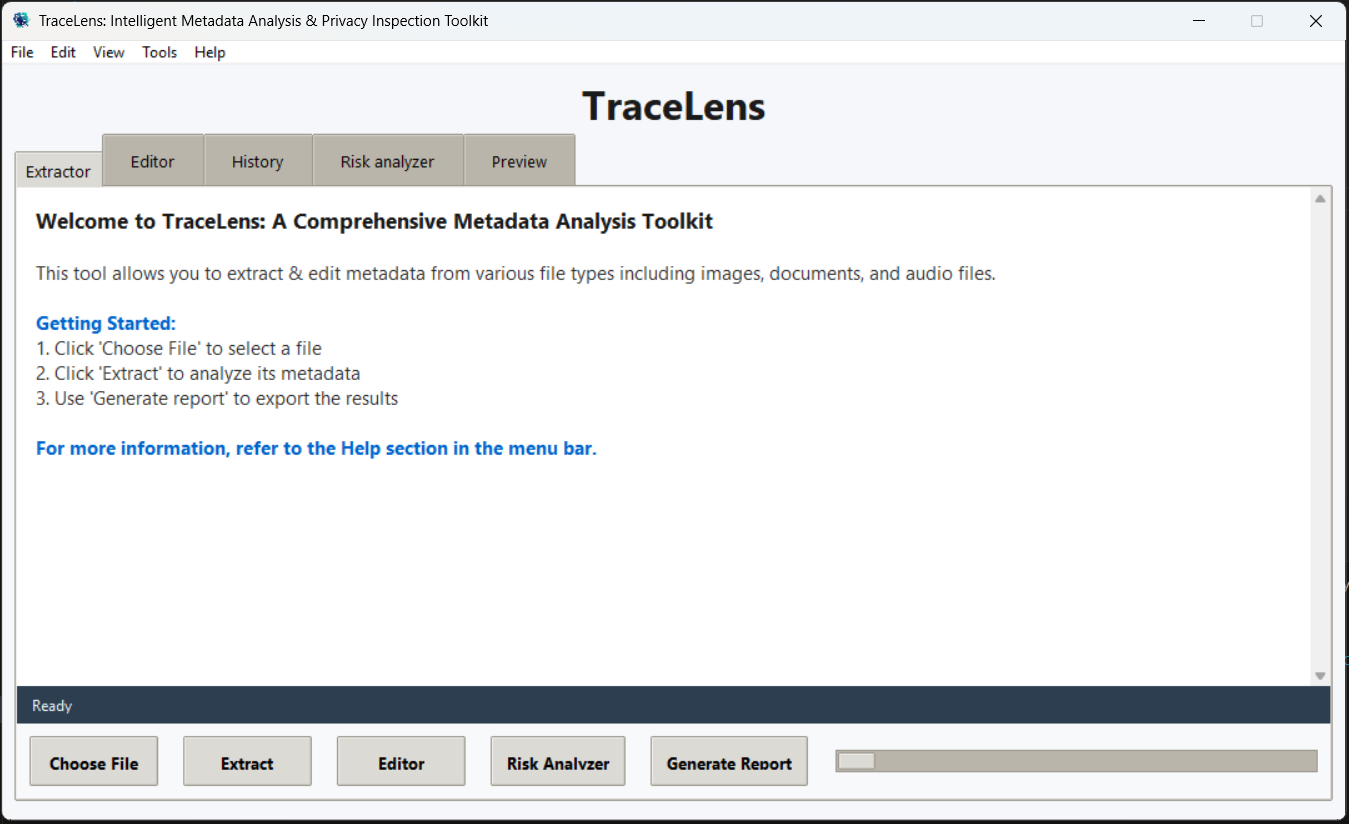
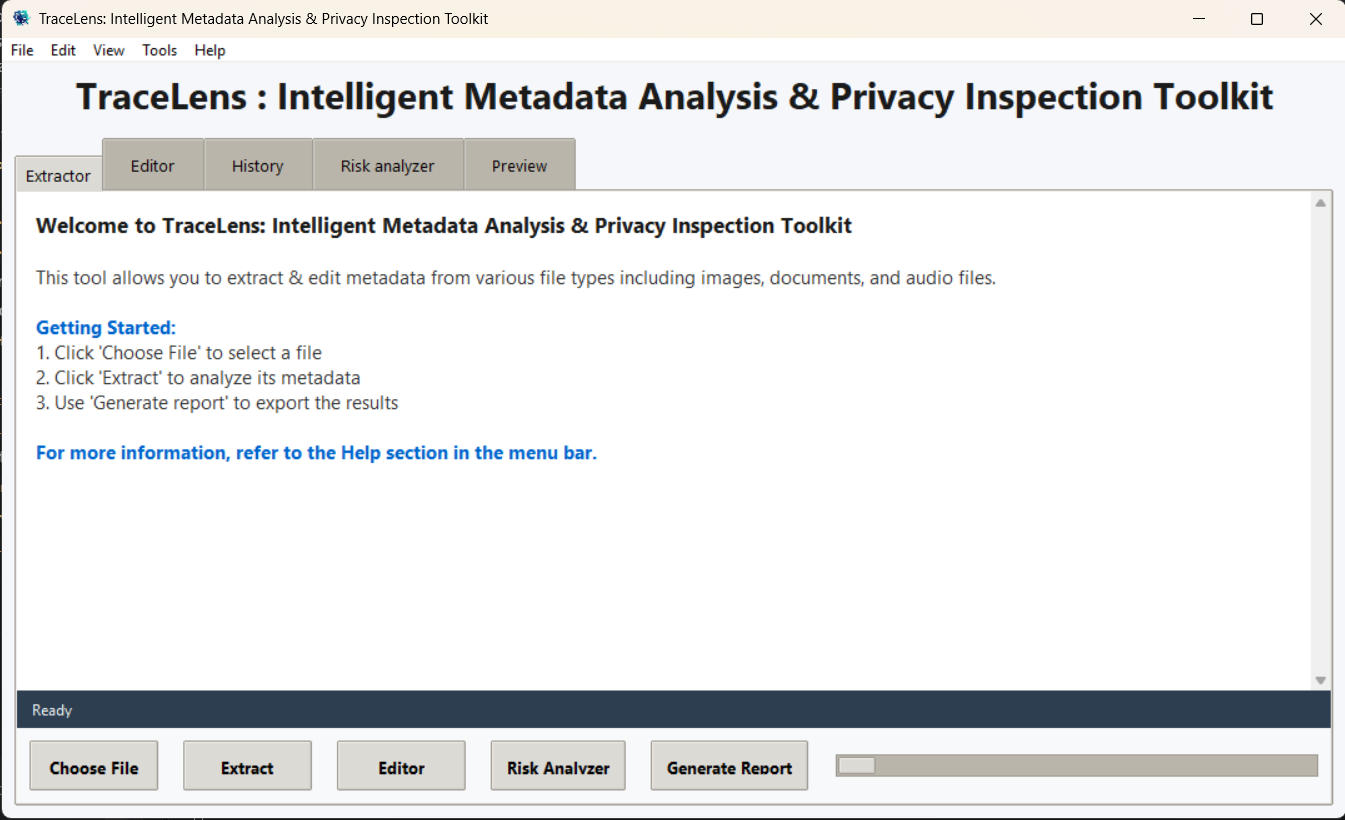
Refactor code structure for improved readability and maintainability

Changed region(s): [[0.0, 0.0, 1.0, 1.0]]

diff --git a/README.md b/README.md
@@ -133,51 +133,105 @@ Version 2.0 represents a major architectural evolution of TraceLens, transformin
 
 ## Interface & Screenshots
 
-### Main Application Window
-The TraceLens desktop interface features an organized tab layout for intuitive workflow transitions.
+### Graphical User Interface (GUI)
+
+#### 1. Main Application Window
+The TraceLens desktop interface features an organized multi-tab layout for seamless transitions across extraction, editing, risk auditing, reporting, and historical analysis.
 
 ![Main Application Window](Screenshots/image.png)
 
-### Tab Demonstrations
+#### 2. Extractor Tab — Metadata Extraction & Inspection
+Browse, select, and parse files across 50+ formats to view extracted metadata properties in an organized key-value grid with automatic SQLite indexing.
 
-#### Extractor Tab
-Browse, select, and parse files to view extracted metadata properties in an organized key-value grid.
+![Extractor Tab](Screenshots/gui_extractor_tab.png)
 
-![Extractor Tab](Screenshots/20260324-1052-59.3947317.gif)
+#### 3. Editor Tab — Field-Level Editing, Write-Back & Sanitization
+Modify editable metadata fields, validate field structures, strip sensitive tags, and commit changes back to the physical file on disk (with automatic `.bak` safety backups) or the local database.
 
-#### Editor Tab
-Modify editable metadata fields, validate field structures, and commit changes back to disk or the local database.
+![Editor Tab](Screenshots/gui_editor_tab.png)
 
-![Editor Tab](Screenshots/20260324-1058-32.5778900.gif)
+#### 4. Risk Analyzer Tab — Privacy Scoring & Forensic Timeline
+Inspect calculated threat scores (`0–100`), risk tiers (`LOW`, `MEDIUM`, `HIGH`), triggered YAML privacy rules, chronological event timelines, and forensic anomaly warnings.
 
-#### Risk Analyzer Tab
-Inspect calculated risk levels, triggered privacy rules, forensic timeline events, and detected anomalies.
-
-![Risk Analyzer Tab](Screenshots/20260324-1105-59.9645562.gif)
+![Risk Analyzer Tab](Screenshots/gui_risk_analyzer_tab.png)
 
 *Note: For unmodified files, the timeline reflects single-event creation records.*
 
-#### Preview and Reports Tab
-Preview PDF reports directly inside the application and export dossier packages across multiple formats.
+#### 5. Preview & Reports Tab — Live PDF Preview & Multi-Format Export
+Preview generated PDF dossiers directly inside the application with zoom controls and export reports across PDF, TXT, JSON, XML, CSV, and Excel formats.
 
-![Preview Tab](Screenshots/20260324-1117-24.0504736.gif)
+![Preview and Reports Tab](Screenshots/gui_preview_reports_tab.png)
 
 *Note: PDF preview rendering requires Poppler binaries installed on the host system.*
 
-#### History Tab
-Search, sort, filter, and inspect previously analyzed files stored within the local SQLite database.
+#### 6. History Tab — Database Search, Filtering & Record Management
+Search, sort, filter by file type or date range, inspect historical records stored in SQLite, and bulk-export filtered datasets.
 
-![History Tab](Screenshots/20260324-1127-00.5345709.gif)
+![History Tab](Screenshots/gui_history_tab.png)
 
-#### Analytics Dashboard
-Examine aggregate metrics, file type breakdowns, and privacy risk trends across all historical scans.
+#### 7. Batch Processing Dialog — Folder Scanning & Risk Aggregation
+Scan entire folder hierarchies recursively with live progress tracking, per-file status reporting, and aggregated batch risk summaries.
 
-![Dashboard](Screenshots/20260324-1135-43.9209846.gif)
+![Batch Processing Dialog](Screenshots/gui_batch_processing.png)
 
-### Command-Line Interface
-The terminal interface provides structured tables, progress feedback, and full scriptability.
+#### 8. Analytics & Statistics Dashboard — Visual Forensic Intelligence
+Examine aggregate metrics, risk distribution charts, file format breakdowns, file size distributions, and extraction timelines across historical scans.
 
-![CLI Interface](Screenshots/20260324-1141-31.6715176.gif)
+![Analytics Dashboard](Screenshots/gui_analytics_dashboard_kpi.png)
+
+![Analytics Dashboard](Screenshots/gui_analytics_dashboard_chart.png)
+
+---
+
+### Command-Line Interface (CLI)
+
+#### 1. CLI Quick Start & Canonical Help Guide (`tracelens`, `tracelens help`, `tracelens --help`)
+Displays the startup branding, Quick Start panel, end-to-end 5-stage forensic workflow pipeline, Command Reference table, and Common Operational Workflows.
+
+![CLI Quick Start](Screenshots/cli_quick_start.png)
+
+![CLI Help Guide](Screenshots/cli_help_overview.png)
+
+#### 2. Metadata Extraction (`tracelens extract`)
+Extracts metadata from a target file, persists the record to SQLite, and outputs a concise extraction summary (or full key-value table with `--details` / `-v`).
+
+![CLI Extract](Screenshots/cli_extract.png)
+
+#### 3. Batch Directory Processing (`tracelens batch`)
+Scans a directory with per-file progress (`Processing 1/N`), isolates individual file failures, and prints a complete batch extraction and risk breakdown summary.
+
+![CLI Batch Processing](Screenshots/cli_batch.png)
+
+#### 4. Privacy & Forensic Risk Analysis (`tracelens analyze`)
+Evaluates file metadata against the YAML rules engine, displaying the risk score (`0–100`), risk level, matched rules, forensic timeline events, and remediation suggestions.
+
+![CLI Risk Analysis](Screenshots/cli_analyze.png)
+
+#### 5. Metadata Sanitization & Field Editing (`tracelens sanitize`, `tracelens edit`)
+Strips identifying EXIF/GPS/author tags with `.bak` backup protection (`sanitize`) or surgically updates specific metadata fields via `--set KEY=VALUE` or `--metadata-file` (`edit`).
+
+![CLI Sanitize](Screenshots/cli_sanitize.png)
+
+![CLI Edit](Screenshots/cli_edit.png)
+
+#### 6. Forensic Report Generation & Dataset Export (`tracelens report`, `tracelens export`)
+Generates structured `.txt` and publication-ready `.pdf` forensic reports from a database Record ID or file path (`report`), and exports filtered history records to JSON, CSV, XML, Excel, or PDF (`export`).
+
+![CLI Report Generation](Screenshots/cli_report.png)
+
+![CLI Dataset Export](Screenshots/cli_export.png)
+
+#### 7. Database Search, History Management & Analytics (`tracelens search`, `tracelens history`, `tracelens analytics`)
+Performs fast keyword searches across stored records (`search`), manages historical records and database statistics (`history`, `history stats`), and computes aggregate risk metrics (`analytics`).
+
+![CLI Search and History](Screenshots/cli_search_history.png)
+
+![CLI Analytics Dashboard](Screenshots/cli_analytics.png)
+
+#### 8. Configuration, Diagnostics & Verbose Logging (`tracelens config`, `tracelens logs`, `--verbose`)
+Displays active environment/database paths, runs SQLite `VACUUM` optimization (`config optimize`), inspects or clears application logs (`logs`), and provides step-by-step `[INFO]`/`[DEBUG]` diagnostics (`-v`).
+
+![CLI Config and Logs](Screenshots/cli_config_logs.png)
 
 ---
 
